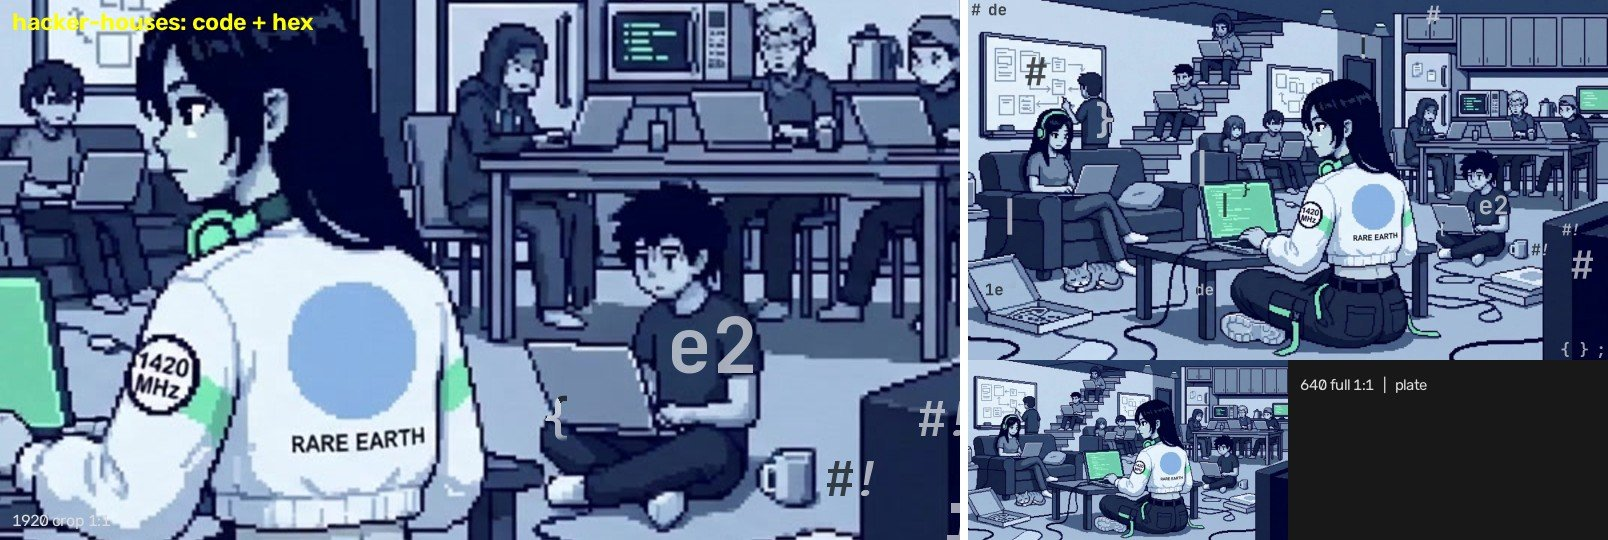
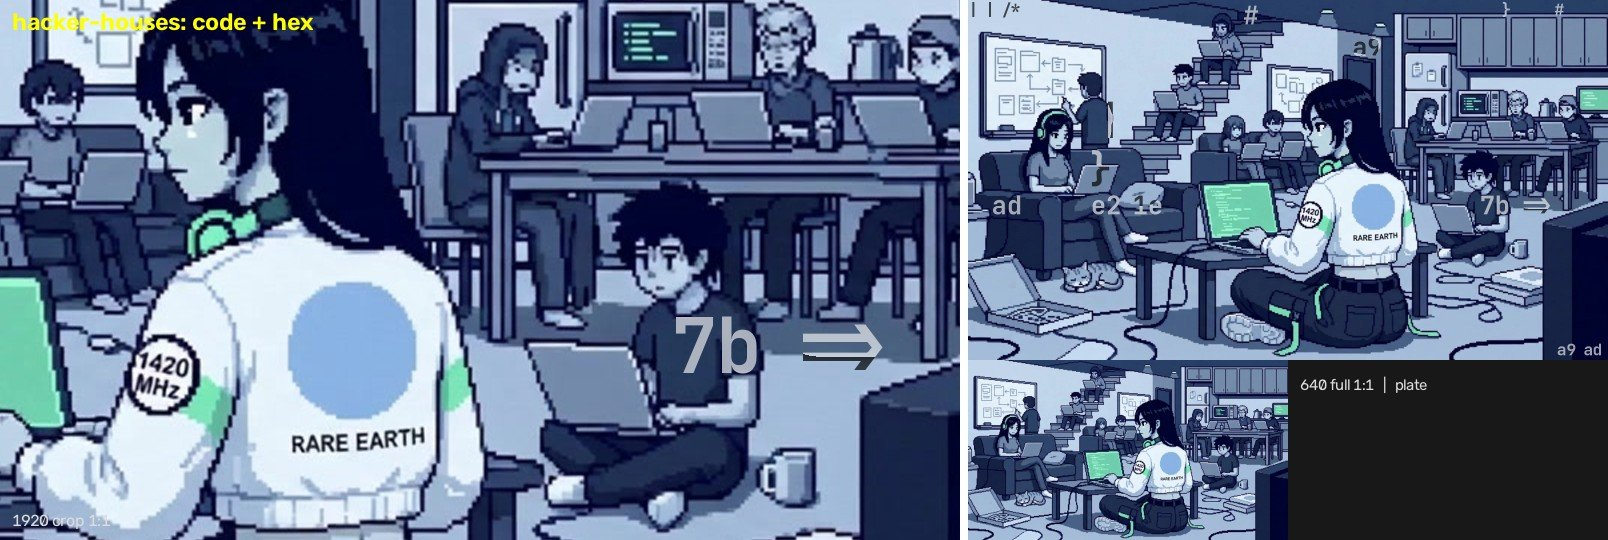
glyph v11: notation plates clear of the lyric, chip and ticker (re-rendered in place), poet words lighter

diff --git a/fable/take2/tools/glyphart/v11/notation11.py b/fable/take2/tools/glyphart/v11/notation11.py
@@ -31,6 +31,23 @@ PLATE = {'piano': ('piano', PROOF), 'violin': ('violin', PROOF), 'wushu': ('wush
 FLAT = {'wetlab': 85, 'wushu': 66, 'violin': 72, 'piano': 58, 'band': 88, 'home': 72}
 EDGE_EXCL = {'violin': 0.10, 'wushu': 0.10}       # edge density above which (sketched / small people) stays clean
 MARGIN = 36
+# film overlays the notation must stay clear of (frame fractions x0, y0, x1, y1), read off the wired sheet
+# (work_fable/take2/dev/v11/wire/notation_sheet.jpg): the verse lyric's box in that shot, the branch chip/caption and the ticker strip
+# (one full-width band), each grown by ZONE_PAD (4 % of frame)
+CHIP_TICKER = (0.0, 0.66, 1.0, 0.87)
+ZONES = {'piano': [(0.55, 0.0, 0.86, 0.14)], 'violin': [(0.0, 0.0, 0.45, 0.16)], 'wushu': [(0.6, 0.0, 1.0, 0.22)],
+         'wetlab': [(0.6, 0.0, 1.0, 0.22)], 'phd': [(0.6, 0.0, 1.0, 0.22)], 'poet': [(0.55, 0.0, 1.0, 0.30)],
+         'ames': [(0.0, 0.0, 0.45, 0.22)], 'band': [(0.0, 0.0, 1.0, 0.2), (0.1, 0.85, 0.62, 1.0)],
+         'chezjj': [(0.1, 0.84, 0.62, 1.0)], 'sandstorm': [(0.1, 0.84, 0.62, 1.0)], 'home': [(0.0, 0.0, 1.0, 0.2), (0.1, 0.84, 0.62, 1.0)]}
+ZONE_PAD = 0.04
+POET_SIZES = [60, 42, 30]       # poet: her words smaller and lighter than the sung line (the lyric stays the dominant text)
+
+
+def zone_rects(life):
+    out = []
+    for (x0, y0, x1, y1) in ZONES.get(life, []) + [CHIP_TICKER]:
+        out.append((max(0, x0 - ZONE_PAD) * W, max(0, y0 - ZONE_PAD) * H, min(1, x1 + ZONE_PAD) * W, min(1, y1 + ZONE_PAD) * H))
+    return out
 
 
 def load(p):   # uint8 RGB at 1920 (memory: a whole clip is held)
@@ -67,6 +84,8 @@ def safe_mask(life, frames, med):
         e = (cv2.Canny(g, 60, 140) > 0).astype(np.float32)
         ex |= cv2.GaussianBlur(e, (0, 0), 14) > EDGE_EXCL[life]
     ex = cv2.dilate(ex.astype(np.uint8), cv2.getStructuringElement(cv2.MORPH_ELLIPSE, (2 * MARGIN + 1, 2 * MARGIN + 1))) > 0
+    for (x0, y0, x1, y1) in zone_rects(life):     # lyric, chip/caption, ticker
+        ex[int(y0):int(y1), int(x0):int(x1)] = True
     return ex
 
 
@@ -76,15 +95,21 @@ def layout(life, med, ex, seed=3):
     alpha = Image.new('L', (W, H), 0)
     used = ex.copy()                 # excluded areas count as taken: no row is laid across them
     flat = N.flat_mask(med, life) & ~ex
+    sizes0 = list(N.SIZES)
+    if life == 'poet':
+        N.SIZES[:] = POET_SIZES
     if life in ('piano', 'violin'):
         N.staves(alpha, used, flat, life, rng)
     else:
         N.text_rows(alpha, used, flat, life, rng)
+    N.SIZES[:] = sizes0
     a = np.asarray(alpha).astype(np.float32) / 255
     a = a * (1 - cv2.GaussianBlur(ex.astype(np.float32), (0, 0), 2))      # belt and braces: nothing inside the safe mask
     ground = cv2.GaussianBlur(med, (0, 0), 6)
     lum = ground[..., 0] * 0.299 + ground[..., 1] * 0.587 + ground[..., 2] * 0.114
     ink = np.where((lum > 0.5)[..., None], ground * 0.32, ground + (1 - ground) * 0.62)
+    if life == 'poet':          # lighter than the lyric
+        ink = ground + (ink - ground) * 0.55
     return a, ink
 
 
@@ -119,6 +144,11 @@ def main():
     chk = fl(frames[k - 1]) * 0.6; chk[ex] = chk[ex] * 0.4 + np.array([0.6, 0, 0], np.float32)
     chk = chk * (1 - a[..., None]) + a[..., None]
     cv2.imwrite(f'{DEV}/notation11_{life}_safe.jpg', (cv2.resize(np.clip(chk, 0, 1), (960, 540))[..., ::-1] * 255).astype(np.uint8))
+    z = (cv2.resize(np.clip(img, 0, 1), (640, 360), interpolation=cv2.INTER_AREA)[..., ::-1] * 255).astype(np.uint8).copy()
+    for (x0, y0, x1, y1) in zone_rects(life):
+        cv2.rectangle(z, (int(x0 / 3), int(y0 / 3)), (int(x1 / 3) - 1, int(y1 / 3) - 1), (0, 0, 255), 2)
+    cv2.putText(z, life, (8, 22), cv2.FONT_HERSHEY_SIMPLEX, 0.6, (0, 255, 255), 2)
+    cv2.imwrite(f'{DEV}/notation11_{life}_zones.jpg', z)
     print(life, pid, n, 'glyph cover', round(float(a.mean()), 3), flush=True)
 
 

diff --git a/fable/take2/notes/glyph_v11.md b/fable/take2/notes/glyph_v11.md
@@ -134,6 +134,12 @@ the alias at them). Sheets: `dev/v11_glyph/notation11_<life>.jpg` (+ `_safe.jpg`
 | (grid etc.) | parenthood | `home_v3` (LIFE_SWAP) | `home_v3_notation11/` | 121 | all | a child's capitals, some mirrored |
 | - | rare-earth | unchanged | - | - | - | v9 as placed |
 
+Notation plates re-rendered IN PLACE 2026-11-22 15:40 (no film render had used them): exclusion zones per plate for the film's
+overlays (read off `dev/v11/wire/notation_sheet.jpg`): the shot's verse-lyric box, one full-width chip/caption + ticker band
+(y 0.66-0.87), each + 4 % of frame (notation11.py ZONES / CHIP_TICKER / ZONE_PAD); poet's words smaller (60/42/30 px) and lighter
+(ink contrast x0.55) and kept a line-height clear of the lyric. Check: `dev/v11_glyph/notation11_zones.jpg` (zones outlined).
+Review copies regenerated.
+
 cb12 note: `patch_settle_merge11/` was re-rendered IN PLACE 2026-11-22 15:00 (daylight front rev 2: a few large irregular lobes +
 fine paper fibre, no spikes; authorised by the main thread, no film render had used it). Still `dev/v11_glyph/cb12_233.5_640.jpg`.
 
